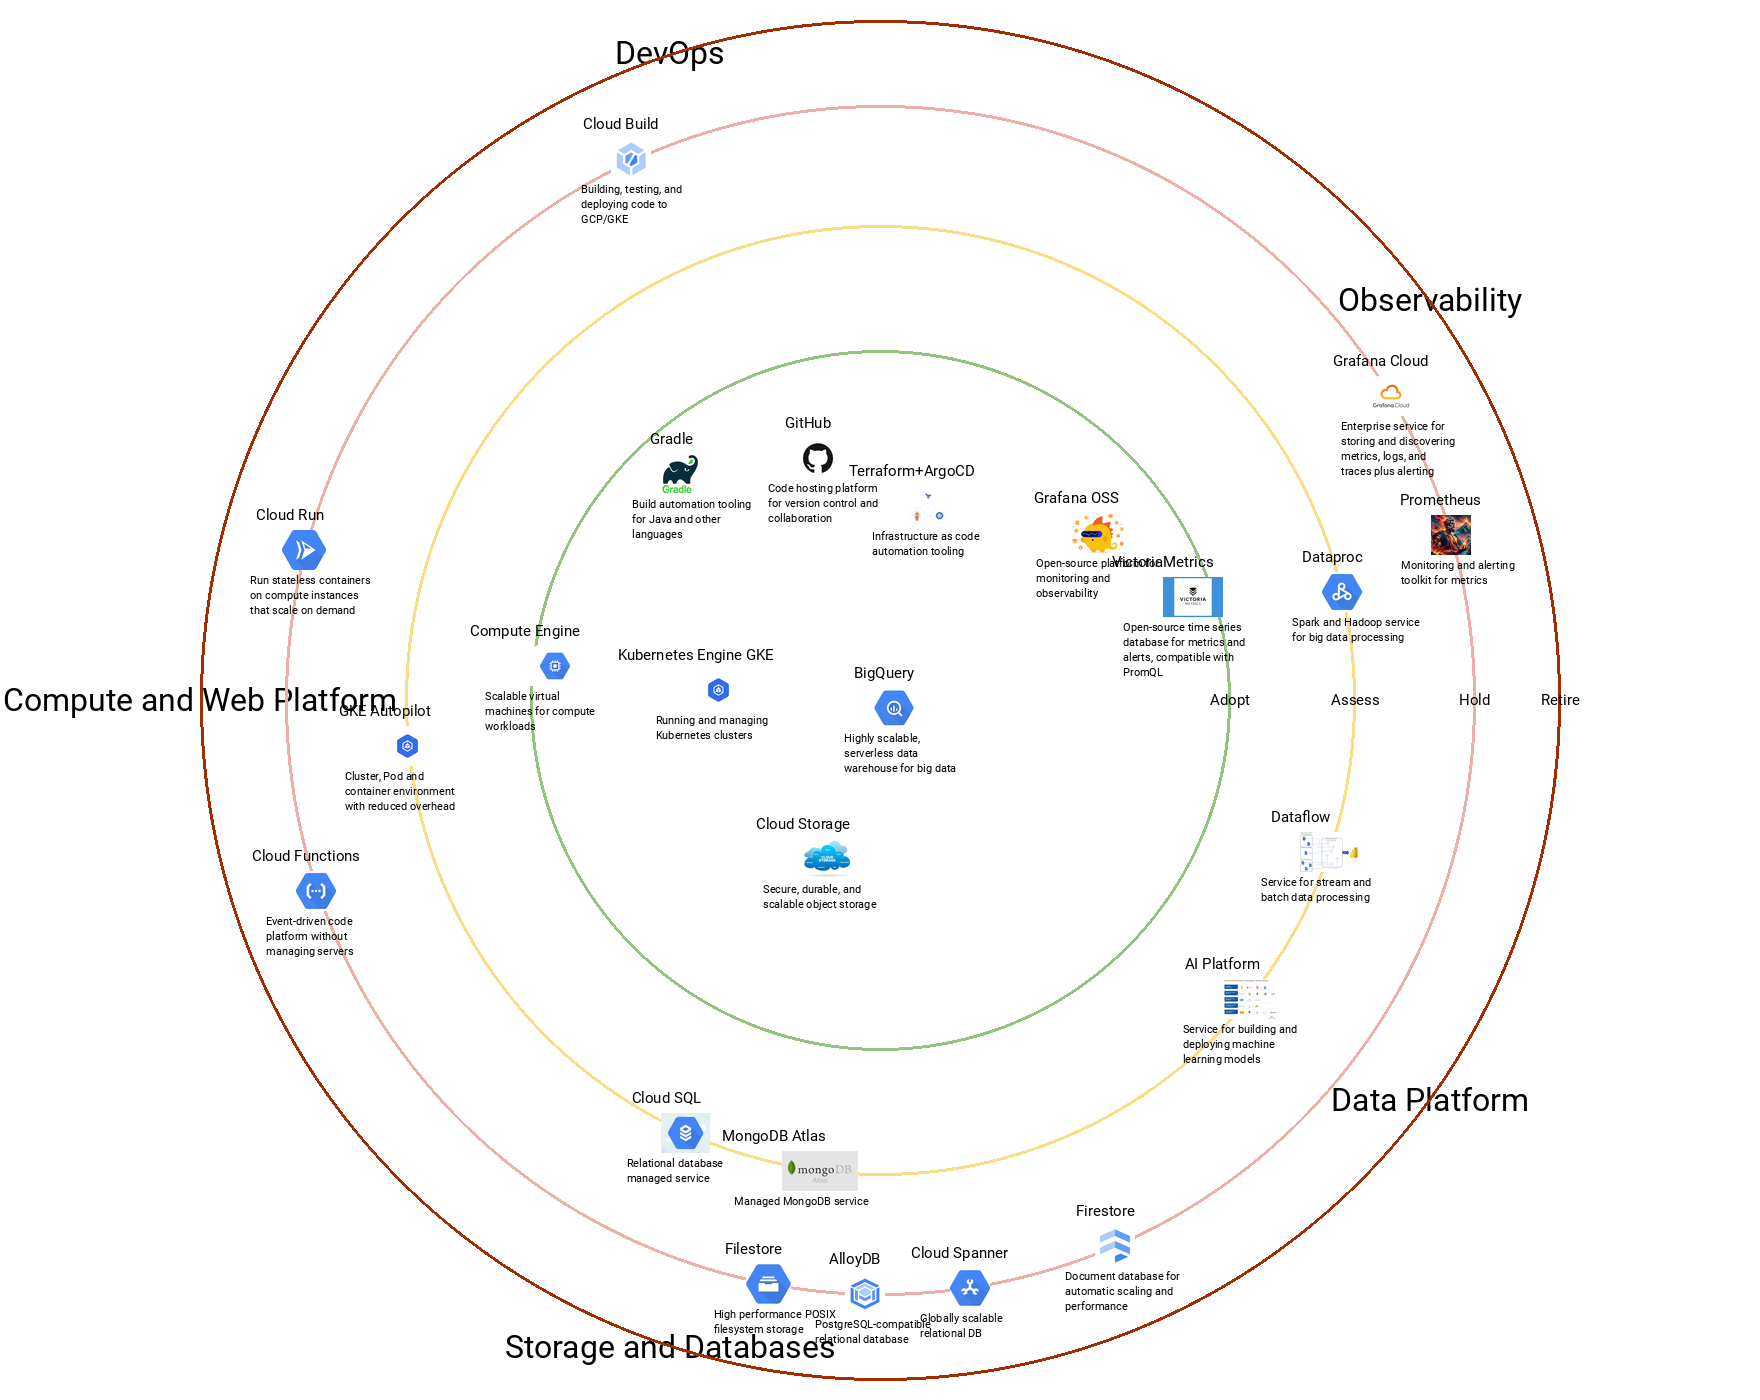
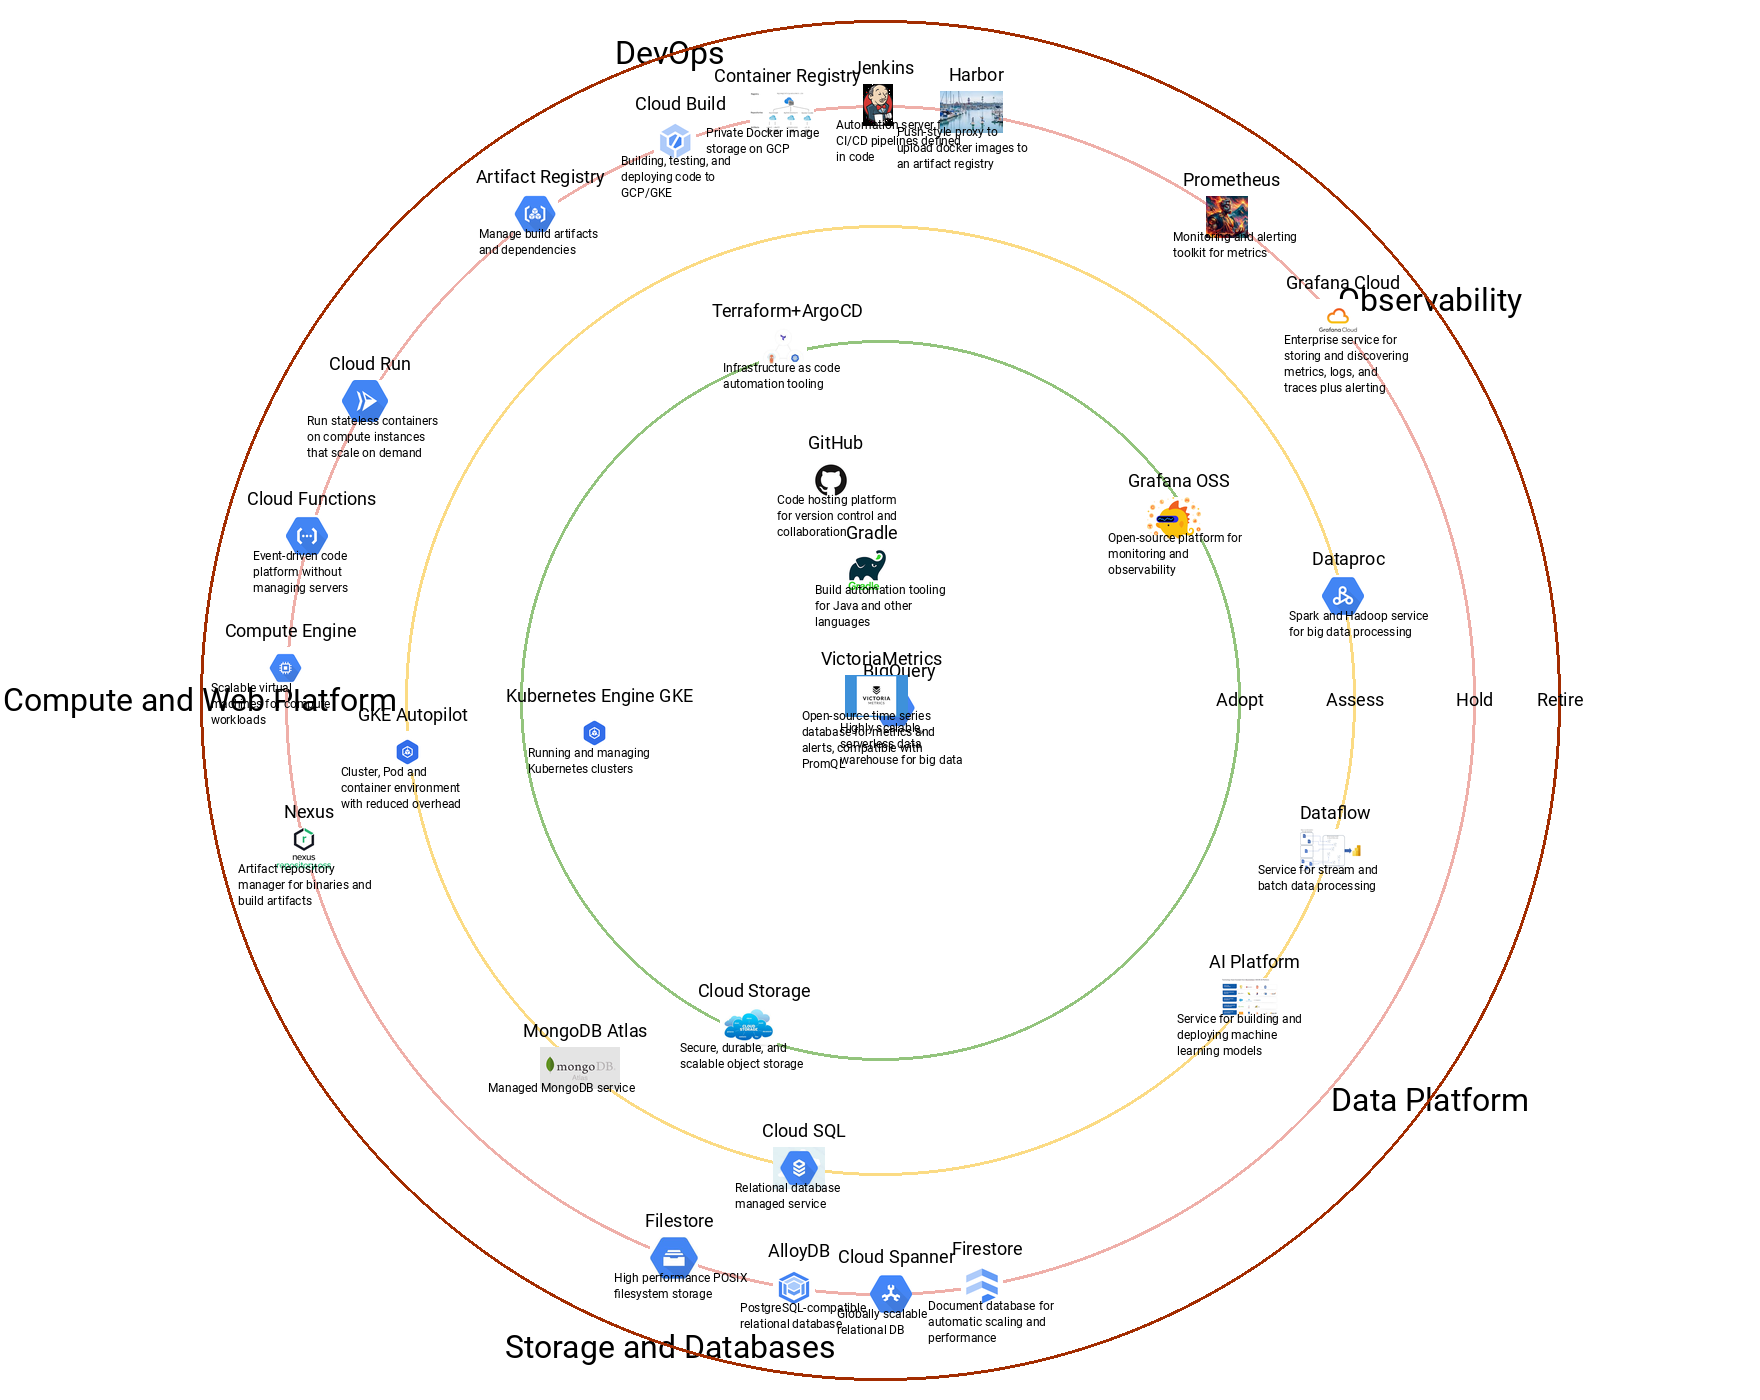
Testing new version

diff --git a/cloud-tech-radar/generate_tech_radar.py b/cloud-tech-radar/generate_tech_radar.py
@@ -24,8 +24,8 @@ download_font(font_url, font_path)
 # Load the font with error handling
 try:
     large_font = ImageFont.truetype(font_path, 32)
-    font = ImageFont.truetype(font_path, 15)
-    small_font = ImageFont.truetype(font_path, 11)
+    font = ImageFont.truetype(font_path, 18)
+    small_font = ImageFont.truetype(font_path, 12)
 except IOError:
     print("Error loading font. Using default font.")
     font = ImageFont.load_default(28)
@@ -122,11 +122,11 @@ def add_images(entry, draw,image, x, y):
             else:
                 raise Exception(f"No local image or image URL for {entry['id']}")
 
-        opacity_level = 25 #doesn't seem to work
+        opacity_level = 80 #doesn't seem to work
         img = Image.open(local_img_path).convert("RGBA")
         img_w, img_h = img.size
         img_ratio = img_w / img_h
-        new_height = 40  #vary based on the content in your tech radar..
+        new_height = 42  #vary based on the content in your tech radar..
         new_width = int(new_height * img_ratio)
         img2 = img.resize((new_width, new_height), Image.Resampling.LANCZOS)
         
@@ -150,7 +150,7 @@ def draw_tech_radar(tech_radar):
     draw = ImageDraw.Draw(img)
     random.seed(200) 
     center_x, center_y =((width // 2), (height // 2))
-    ring_radius = [350, 475, 595, 680]
+    ring_radius = [360, 475, 595, 680]
 
     quadrant_angle_step = 360 / len(tech_radar['quadrants'])
     
@@ -202,29 +202,31 @@ def draw_tech_radar(tech_radar):
     
         # Collision detection and resolution
         i = 0
-        max_attempts = 2000 # Limit attempts to prevent infinite loop
-        while any(abs(px - x) < 95 and abs(py - y) < 92 for px, py in placed_entries) and i < max_attempts:
-            angle += random.uniform(-8, 8)  # Small random adjustment
+        max_attempts = 1000 # Limit attempts to prevent infinite loop
+        while any(abs(px - x) < 85 and abs(py - y) < 85 for px, py in placed_entries) and i < max_attempts:
+            angle += random.uniform(-5, 5)  # Small random adjustment
             x = center_x + radius * cos(radians(angle))
             y = center_y + radius * sin(radians(angle))
-            if abs(y) < 250:
-              x =random.randint(-800,800)
-              y=random.randint(-800, 800)
-            if abs(x) < 300:
-              x=555
-              y=666
+            if abs(x) < 90:
+              if abs(y) < 200:
+                x+=30
+                x*=3
+            elif abs(y) < 80 and abs(x) < 200:
+                y+=20
+                y*=2.5
             i += 1
     
         if i >= max_attempts:
-            print(f"Warning: Max attempts reached for {entry['title']} at {quadrant_index}, {ring_index}")
+            print(f"Max attempts reached for {entry['title']} at {quadrant_index}, {ring_index}")
     
         # Place image and text
         img_x, img_y, img_w, img_h = add_images(entry, draw, img, x, y)
         if img_x is not None:
             placed_entries.append((x, y))
-            draw.text((img_x - img_w / 2 + 30 , img_y - img_h + 25), entry['title'], font=font, fill="black", anchor="mm")
-            draw.text((img_x-img_w/2-10, img_y + img_h + 3), f"{textwrap.fill(entry['description'],24)}", font=small_font, fill="black")
-            placed_entries.append((img_x-img_w/2+1, img_y + img_h +15))
+            draw.text((img_x + img_w / 2 +5 , img_y - img_h/2 +5), entry['title'], font=font, fill="black", anchor="mm")
+            draw.text((img_x-img_w/2-12, img_y + img_h/2+12), f"{textwrap.fill(entry['description'],24)}", font=small_font, fill="black")
+            placed_entries.append((img_x + img_w/2+5, img_y - img_h/2 +5))
+            placed_entries.append((img_x-img_w/2 -12 , img_y + img_h/2+12))
 
             img.save('output/tech_radar.png')
     print("Tech Radar image saved to tech_radar.png")
